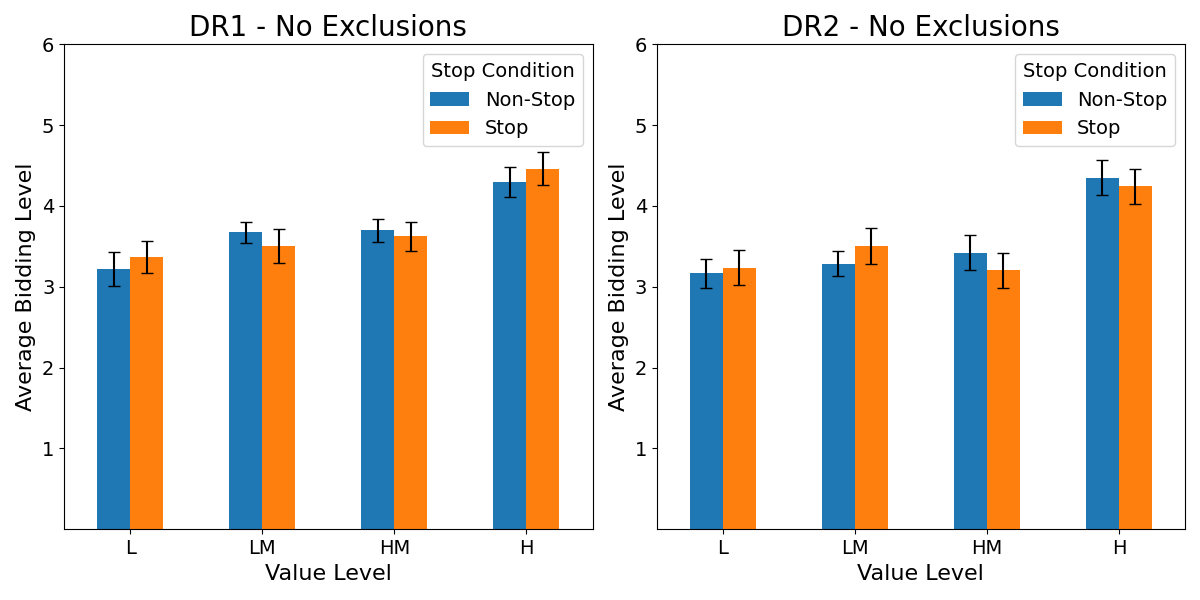
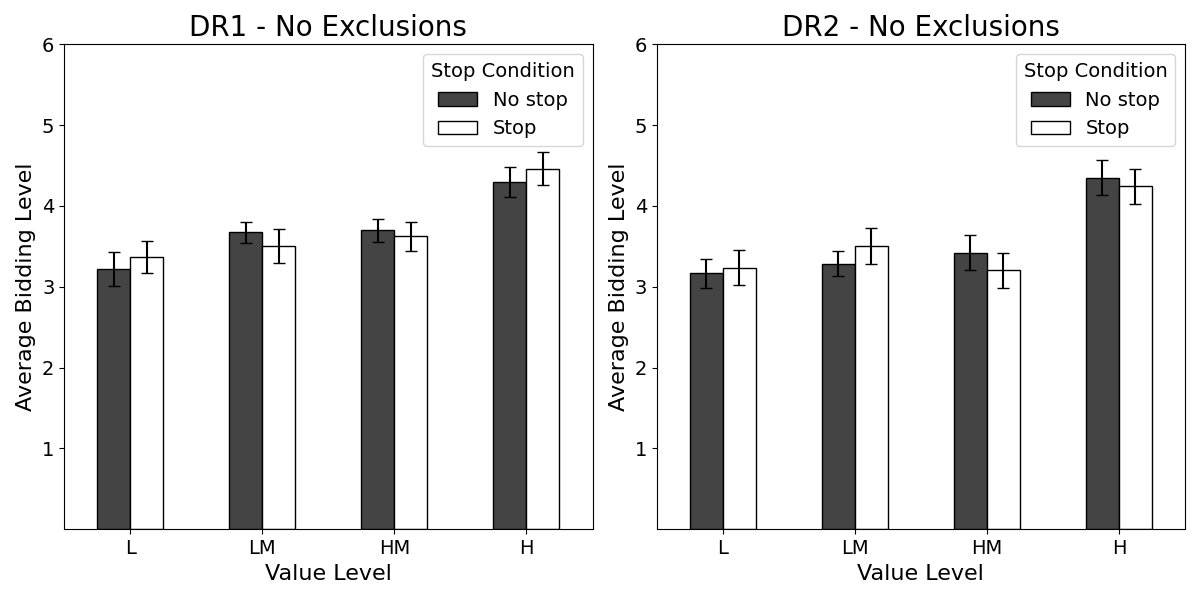
feat(change): Changed figures to match Wessel et al

diff --git a/src/inhibition_induced_devaluation/utils/utils.py b/src/inhibition_induced_devaluation/utils/utils.py
@@ -371,7 +371,7 @@ def process_subject_data(file_path: Path, location: str) -> pd.DataFrame:
         .reset_index()
     )
     df_agg["STOP_CONDITION"] = df_agg["paired_with_stopping"].map(
-        {0: "Non-Stop", 1: "Stop"}
+        {0: "No stop", 1: "Stop"}
     )
 
     return df_agg[["SUBJECT", "VALUE_LEVEL", "STOP_CONDITION", "BIDDING_LEVEL"]]
@@ -484,9 +484,9 @@ def create_devaluation_figure(
     )
 
     # Create figure
-    if ax is None:
-        fig, ax = plt.subplots(figsize=(10, 6)) # If ax is None create a new figure
-    avg_pivot.plot(kind="bar", yerr=sem_pivot, capsize=4, ax=ax)
+    color_map = {"No stop": "#444444", "Stop": "#ffffff"}
+    bar_colors = [color_map.get(col, "#cccccc") for col in avg_pivot.columns]
+    avg_pivot.plot(kind="bar", yerr=sem_pivot, capsize=4, ax=ax, color=bar_colors, edgecolor='black')
 
     if subject_type == "included":
         ax.set_title(f"{location}", fontsize=20)
@@ -611,7 +611,7 @@ def perform_equivalence_testing(
     ).dropna()
 
     stop_group = paired_df["Stop"]
-    no_stop_group = paired_df["Non-Stop"]
+    no_stop_group = paired_df["No stop"]
 
     # Calculate statistics
     diff = no_stop_group - stop_group
@@ -721,7 +721,7 @@ def create_stopping_results_tables(data_dir: Path, table_dir: Path,
     metric_display = {
         "p2_go_RT": "Go RT (ms)",
         "p2_goRT_stop_shapes": "Go RT Stop shapes (ms)",
-        "p2_goRT_go_shapes": "Go RT Non-Stop Shapes (ms)",
+        "p2_goRT_go_shapes": "Go RT No stop Shapes (ms)",
         "p2_stopfail_RT": "Stop-Failure RT (ms)",
         "p2_prob_stop": "p(resp|signal)",
         "p2_SSRT": "SSRT (ms)",
@@ -888,7 +888,7 @@ def create_results_table(
         ('Stopping', 'Main effect'),
         ('Stopping', 'BF₀₁'),
         ('Stopping', 'Equivalence test'),
-        ('Stopping', 'Count of Non-Stop <= Stop'),
+        ('Stopping', 'Count of No stop <= Stop'),
         ('Value', 'Main effect'),
         ('Interaction', 'Interaction'),
     ], names=['Effect', 'Test'])
@@ -923,14 +923,14 @@ def create_results_table(
         equiv_p = max(p_lower, p_upper)
         equiv_t = t_lower if abs(t_lower) < abs(t_upper) else t_upper
 
-        # Count subjects where Non-stop <= Stop
+        # Count subjects where No stop <= Stop
         aggregated_df = df.groupby(["SUBJECT", "STOP_CONDITION"],
                                    observed=True)["BIDDING_LEVEL"].mean().reset_index()
         paired_df = aggregated_df.pivot(index="SUBJECT",
                                         columns="STOP_CONDITION",
                                         values="BIDDING_LEVEL").dropna()
 
-        nostop_less_than_equal_to_stop = sum(paired_df["Non-Stop"] <= paired_df["Stop"])
+        nostop_less_than_equal_to_stop = sum(paired_df["No stop"] <= paired_df["Stop"])
         total_subjects = len(paired_df)
         n = len(paired_df)
 
@@ -1225,7 +1225,7 @@ def average_bidding_for_stanford(data:Dict[str, pd.DataFrame],
                                  output_dir:Path) -> pd.DataFrame:
     """
     Compute the average bidding level for each value level (L, LM, HM, H) and
-    stop condition (Stop, Non-Stop) for Stanford.
+    stop condition (Stop, No stop) for Stanford.
 
     Args:
         data: Dictionary of processed DataFrames by location

diff --git a/tests/test_equivalence_testing.py b/tests/test_equivalence_testing.py
@@ -9,7 +9,7 @@ def sample_data():
     """Create sample data for testing"""
     data = {
         'SUBJECT': ['S1', 'S1', 'S2', 'S2', 'S3', 'S3'],
-        'STOP_CONDITION': ['Stop', 'Non-Stop'] * 3,
+        'STOP_CONDITION': ['Stop', 'No stop'] * 3,
         'BIDDING_LEVEL': [3, 3, 4, 4, 5, 5],  # No difference between conditions
         'VALUE_LEVEL': ['H', 'H', 'H', 'H', 'H', 'H']
     }
@@ -46,7 +46,7 @@ def test_perform_equivalence_testing_with_difference():
     """Test equivalence testing with clear difference between conditions"""
     data = {
         'SUBJECT': ['S1', 'S1', 'S2', 'S2'],
-        'STOP_CONDITION': ['Stop', 'Non-Stop'] * 2,
+        'STOP_CONDITION': ['Stop', 'No stop'] * 2,
         'BIDDING_LEVEL': [1, 5, 2, 6],  # Large difference between conditions
         'VALUE_LEVEL': ['H', 'H', 'H', 'H']
     }
@@ -57,7 +57,7 @@ def test_perform_equivalence_testing_with_difference():
     # For non-equivalent conditions, at least one p-value should be high
     assert p_lower > 0.05 or p_upper > 0.05
 
-    # The mean difference (Non-Stop - Stop) should be large and positive
+    # The mean difference (No stop - Stop) should be large and positive
     # This is indirectly tested through t-statistics
     assert t_upper > 0  # Upper bound test: t-statistic should be positive
 
@@ -65,7 +65,7 @@ def test_perform_equivalence_testing_custom_margin():
     """Test equivalence testing with custom equivalence margin"""
     data = {
         'SUBJECT': ['S1', 'S1', 'S2', 'S2'],
-        'STOP_CONDITION': ['Stop', 'Non-Stop'] * 2,
+        'STOP_CONDITION': ['Stop', 'No stop'] * 2,
         'BIDDING_LEVEL': [3, 4, 3, 4],  # Small difference between conditions
         'VALUE_LEVEL': ['H', 'H', 'H', 'H']
     }
